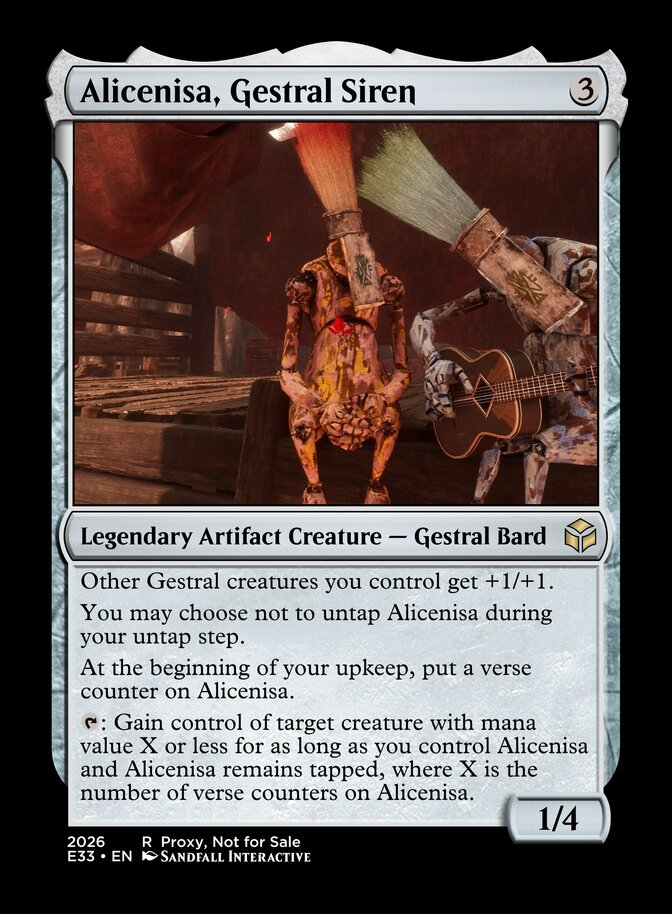
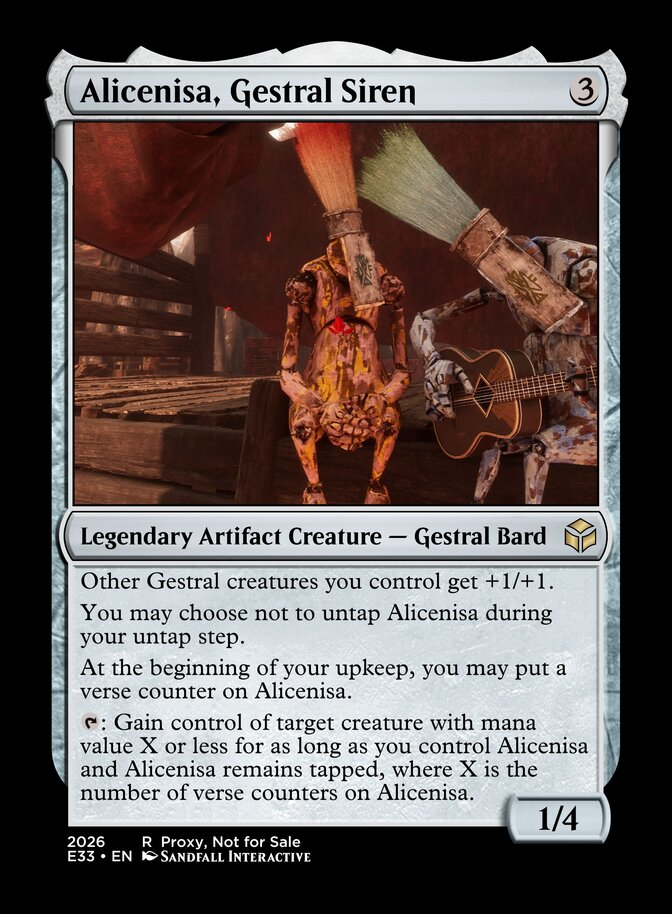
#71: Alicenisa: Make verse trigger optional

Changed region(s): [[0.125, 0.7352, 0.5312, 0.7659], [0.625, 0.7046, 0.8125, 0.7659]]

diff --git a/design/ARTIFACTS.md b/design/ARTIFACTS.md
@@ -1,6 +1,6 @@
 # Cards
 
-> Last generated: 18/1/2026 6:26:57 am
+> Last generated: 18/1/2026 6:51:08 am
 
 ## A Rock for François
 
@@ -31,7 +31,7 @@ Esquie: I think we captured your essence beautifully.
 Legendary Artifact Creature - Gestral Bard
 Other Gestral creatures you control get +1/+1.
 You may choose not to untap Alicenisa during your untap step.
-At the beginning of your upkeep, put a verse counter on Alicenisa.
+At the beginning of your upkeep, you may put a verse counter on Alicenisa.
 {T}: Gain control of target creature with mana value X or less for as long as you control Alicenisa and Alicenisa remains tapped, where X is the number of verse counters on Alicenisa.
 
 1/4
